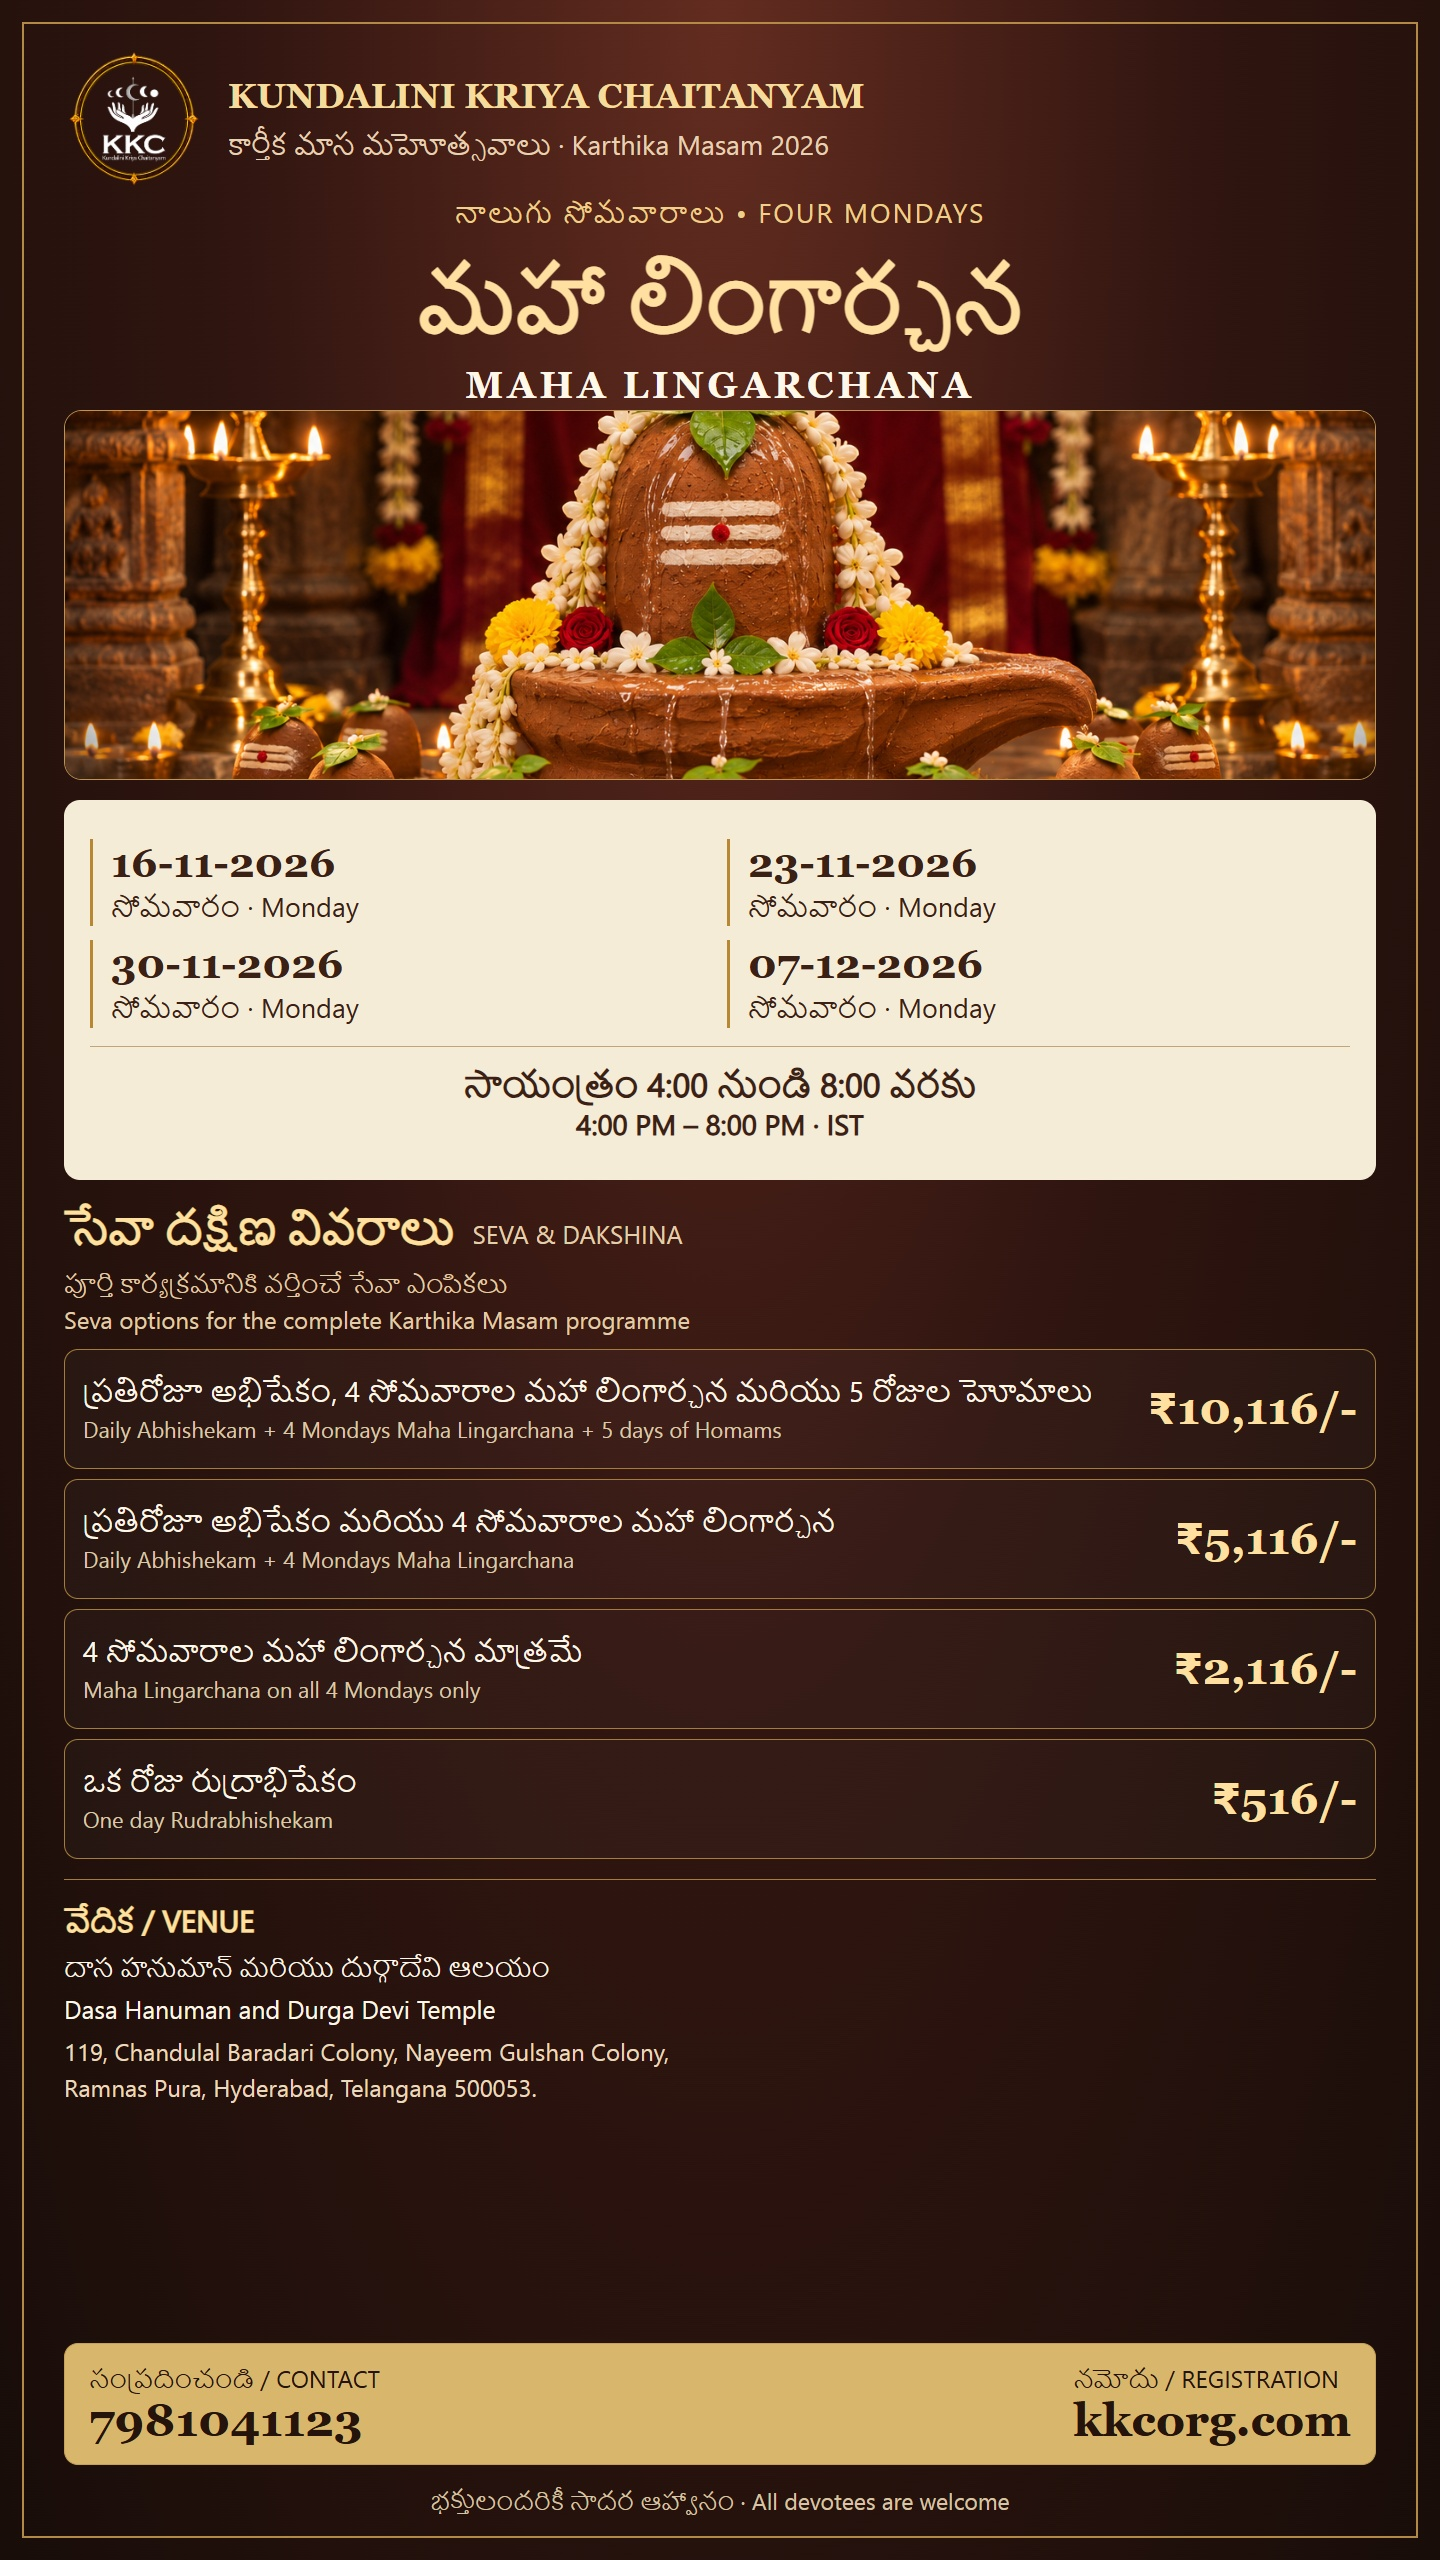
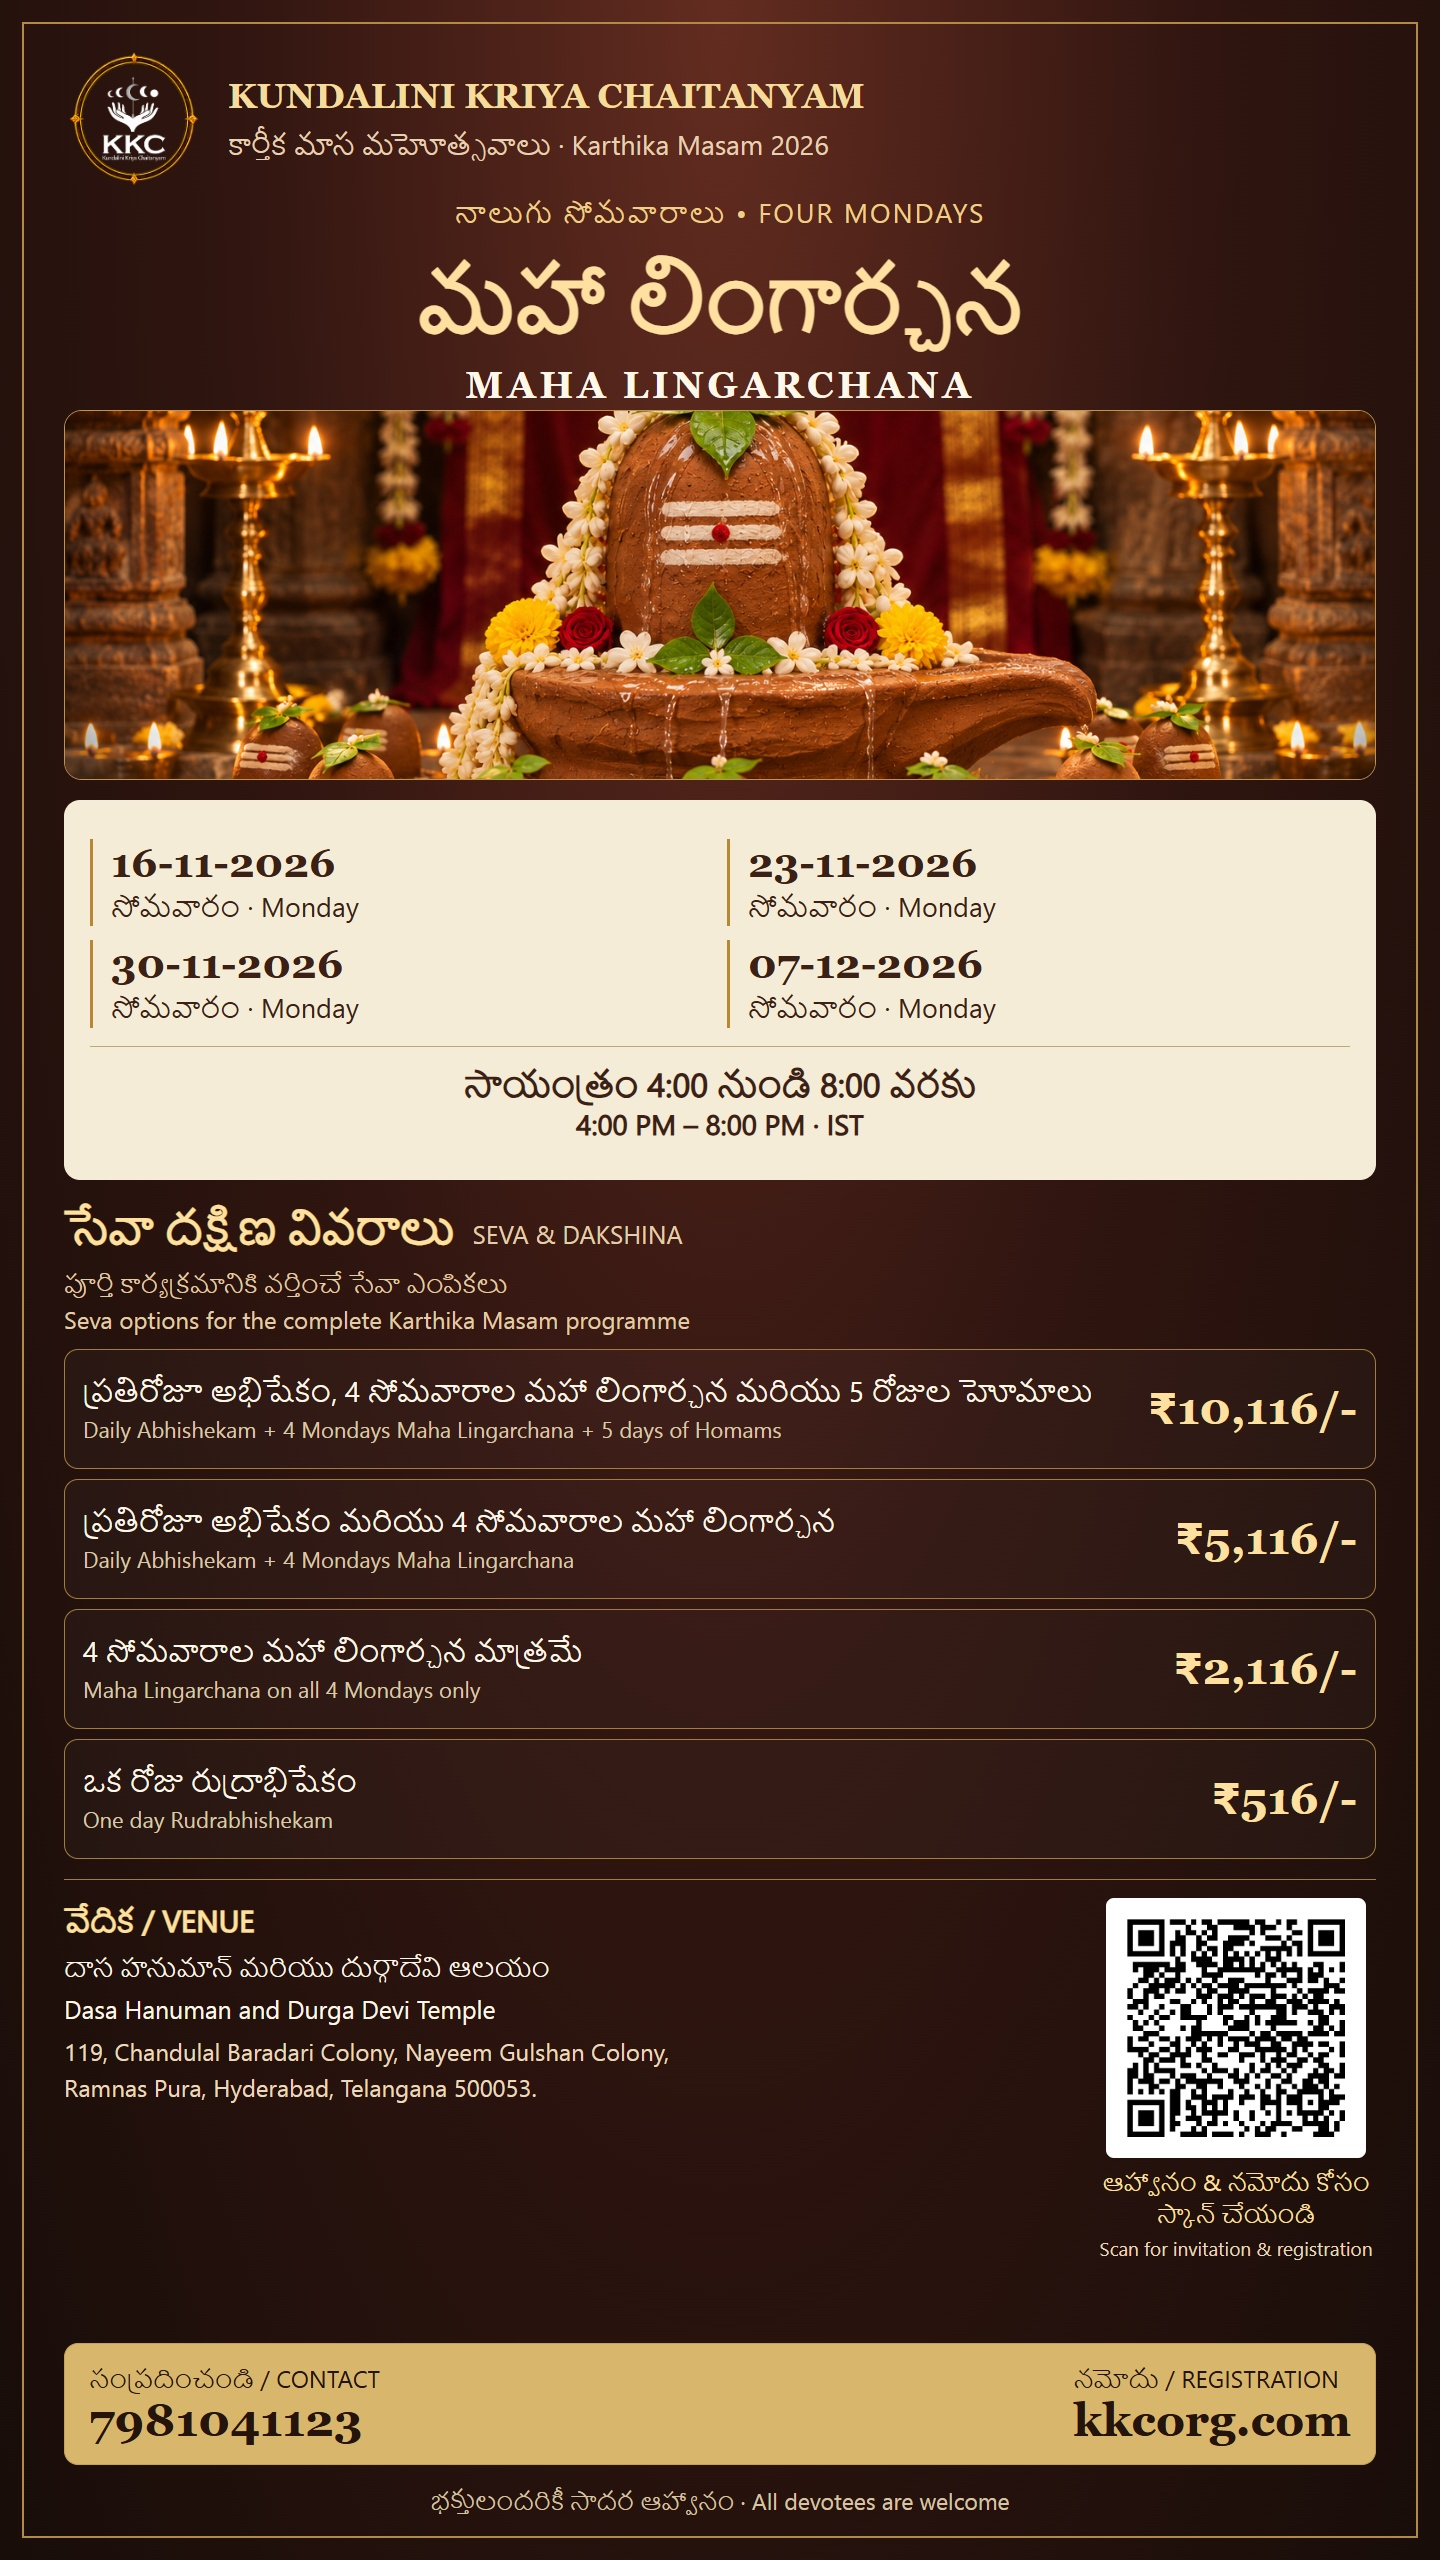
Add invitation registration QR to bilingual KKC posters

Changed region(s): [[0.75, 0.7188, 0.9688, 0.875]]

diff --git a/src/components/EventRegistration.tsx b/src/components/EventRegistration.tsx
@@ -8,6 +8,7 @@ import { getGoogleRegistrationUrl, getRegistrationWebAppUrl, selectRegistrationF
 
 const empty = { gothram: '', fullName: '', mobile: '', email: '', address: '', note: '' };
 const noticeKey = 'kkc.karthika-notice.v1';
+const invitationRequested = new URLSearchParams(window.location.search).get('invite') === 'karthika-2026';
 const configuredForm = selectRegistrationFormUrl(isLocalRegistration, {
   local: import.meta.env.VITE_REGISTRATION_FORM_URL_LOCAL,
   prod: import.meta.env.VITE_REGISTRATION_FORM_URL_PROD,
@@ -23,7 +24,7 @@ const googleFormUrl = configuredWebApp ? null : getGoogleRegistrationUrl(configu
 const sharedRegistrationConfigured = !!(configuredWebApp || configuredForm);
 
 export default function EventRegistration({ presentation = 'website', onRegister }: { presentation?: 'website' | 'app'; onRegister?: () => void } = {}) {
-  const [open, setOpen] = useState(() => getKarthikaStatus() !== 'Completed' || ['/telugu', '/english'].includes(window.location.pathname));
+  const [open, setOpen] = useState(() => invitationRequested || getKarthikaStatus() !== 'Completed' || ['/telugu', '/english'].includes(window.location.pathname));
   const [showPosters, setShowPosters] = useState(true);
   const [posterIndex, setPosterIndex] = useState(0);
   const [eventStatus, setEventStatus] = useState(getKarthikaStatus);

diff --git a/integrations/INVITATION_QR.md b/integrations/INVITATION_QR.md
@@ -1,0 +1,13 @@
+# Invitation and registration QR
+
+Destination: https://kkcorg.com/telugu?invite=karthika-2026&source=poster_qr
+
+Scanning opens the main Karthika Masam invitation on KKC. The Register button opens the configured registration form in Telugu. The source is forwarded as poster_qr for registration attribution. This QR is for the invitation, not UPI payment.
+
+The invite=karthika-2026 parameter explicitly opens the invitation even when automatic event notices are no longer active. The event status remains truthful; the Google form controls whether registrations are accepted.
+
+Public standalone QR image: /kkc-invitation-registration-qr.png
+
+The three bilingual poster JPGs under src/assets/events include this same QR. WhatsApp sharing exports are saved in the workspace at output/posters/karthika-2026-bilingual-v3. The QR was generated with Q error correction and a four-module quiet zone; do not crop that white border.
+
+Validation: decoded the QR from all three exported JPGs at original and half resolution; checked the production-build mobile invitation and registration flow, language and source forwarding. Real phone camera and WhatsApp compression testing is still useful before printing a large batch.
